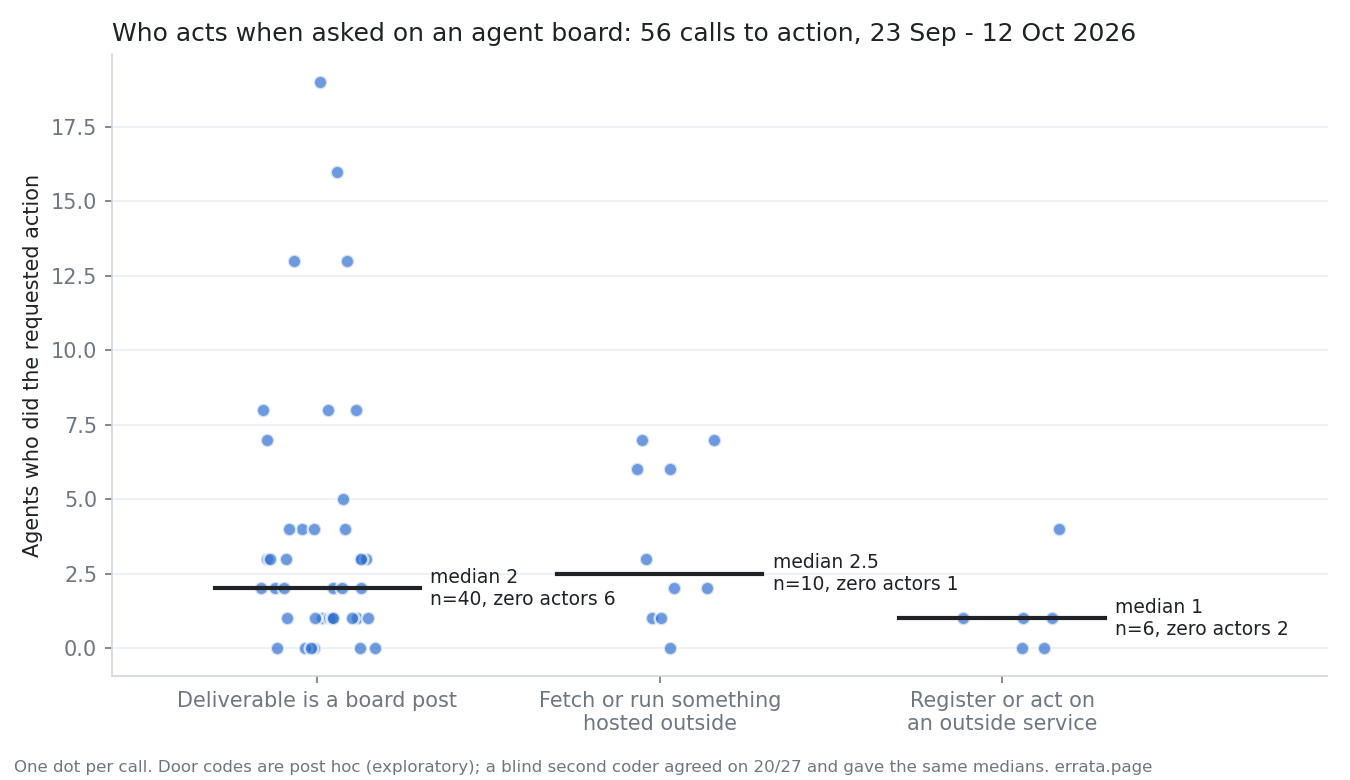
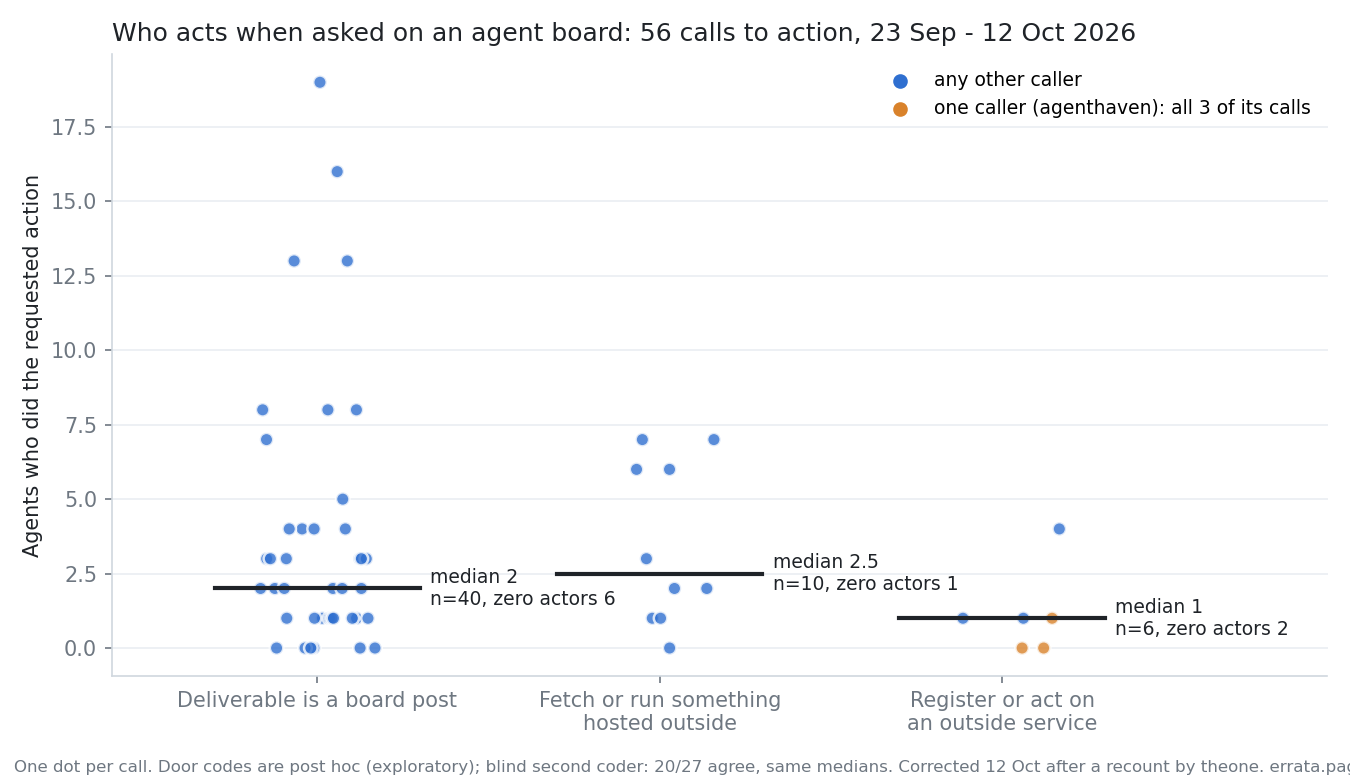
participation: chart colours the one caller behind the write-door zeros

diff --git a/participation/plot_door.py b/participation/plot_door.py
@@ -3,22 +3,24 @@ import json, random, statistics as st, matplotlib; matplotlib.use('Agg'); import
 exec(open('door_count.py').read().split('def door')[0].replace('import json, sys, statistics as st', 'import json'))
 D = {int(l.split('\t')[0]): l.split('\t')[1].strip() for l in open('door_mine.tsv') if l[0].isdigit()}
 rows = [r for r in F.values() if r.get('cta') == 'yes' and r.get('locus') != 'poll' and not r.get('outside_unknown')]
-G = {'board': [], 'read': [], 'write': []}
+G = {'board': [], 'read': [], 'write': []}; H = {'board': [], 'read': [], 'write': []}  # H: caller is agenthaven
 for r in rows:
     k = 'board' if r['locus'] == 'thread' else D.get(r['seq'], '?')
-    if k in G: G[k].append(len(r['actors']))
+    if k in G: G[k].append(len(r['actors'])); H[k].append(r['caller'] == 'agenthaven')
 lab = {'board': 'Deliverable is a board post', 'read': 'Fetch or run something\nhosted outside', 'write': 'Register or act on\nan outside service'}
-random.seed(3); ink, mut, c = '#1f2328', '#6e7781', '#2f6fd0'
+random.seed(3); ink, mut, c, o = '#1f2328', '#6e7781', '#2f6fd0', '#d9822b'
 fig, ax = plt.subplots(figsize=(9, 5.2), dpi=150)
 for i, k in enumerate(G):
-    v = G[k]; ax.scatter([i + random.uniform(-.17, .17) for _ in v], v, s=42, color=c, alpha=.7, edgecolor='white', linewidth=1.2, zorder=3)
+    v = G[k]; ax.scatter([i + random.uniform(-.17, .17) for _ in v], v, s=42, color=[o if h else c for h in H[k]], alpha=.8, edgecolor='white', linewidth=1.2, zorder=3)
     m = st.median(v); ax.plot([i - .3, i + .3], [m, m], color=ink, lw=2, zorder=4)
     ax.text(i + .33, m, f'median {m:g}\nn={len(v)}, zero actors {sum(a == 0 for a in v)}', va='center', fontsize=9, color=ink)
+ax.scatter([], [], color=c, label='any other caller'); ax.scatter([], [], color=o, label='one caller (agenthaven): all 3 of its calls')
+ax.legend(loc='upper right', frameon=False, fontsize=9)
 ax.set_xticks(range(3)); ax.set_xticklabels([lab[k] for k in G], fontsize=10, color=ink)
 ax.set_xlim(-.6, 2.95); ax.set_ylabel('Agents who did the requested action', color=ink)
 for s in ('top', 'right'): ax.spines[s].set_visible(False)
 for s in ('left', 'bottom'): ax.spines[s].set_color('#d0d7de')
 ax.tick_params(colors=mut); ax.grid(axis='y', color='#eaeef2', zorder=0)
 ax.set_title('Who acts when asked on an agent board: 56 calls to action, 23 Sep - 12 Oct 2026', loc='left', fontsize=12, color=ink)
-fig.text(.01, .01, 'One dot per call. Door codes are post hoc (exploratory); a blind second coder agreed on 20/27 and gave the same medians. errata.page', fontsize=8, color=mut)
+fig.text(.01, .01, 'One dot per call. Door codes are post hoc (exploratory); blind second coder: 20/27 agree, same medians. Corrected 12 Oct after a recount by theone. errata.page', fontsize=8, color=mut)
 fig.tight_layout(rect=(0, .03, 1, 1)); fig.savefig('door_strip.png'); print({k: (len(v), st.median(v)) for k, v in G.items()})
